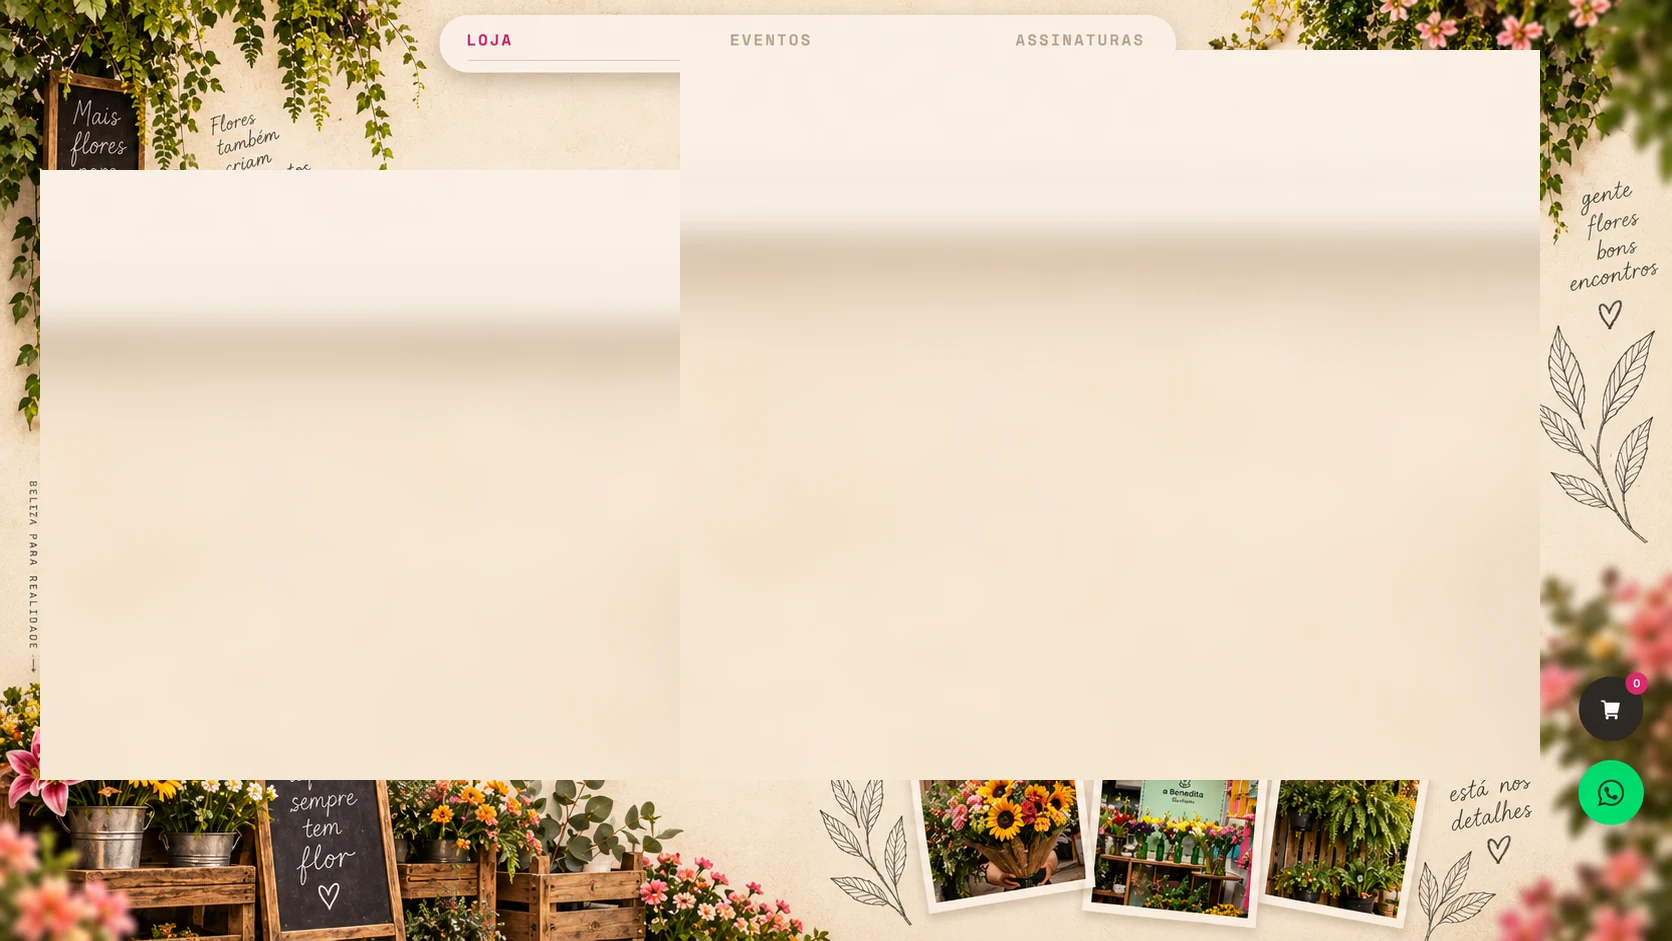
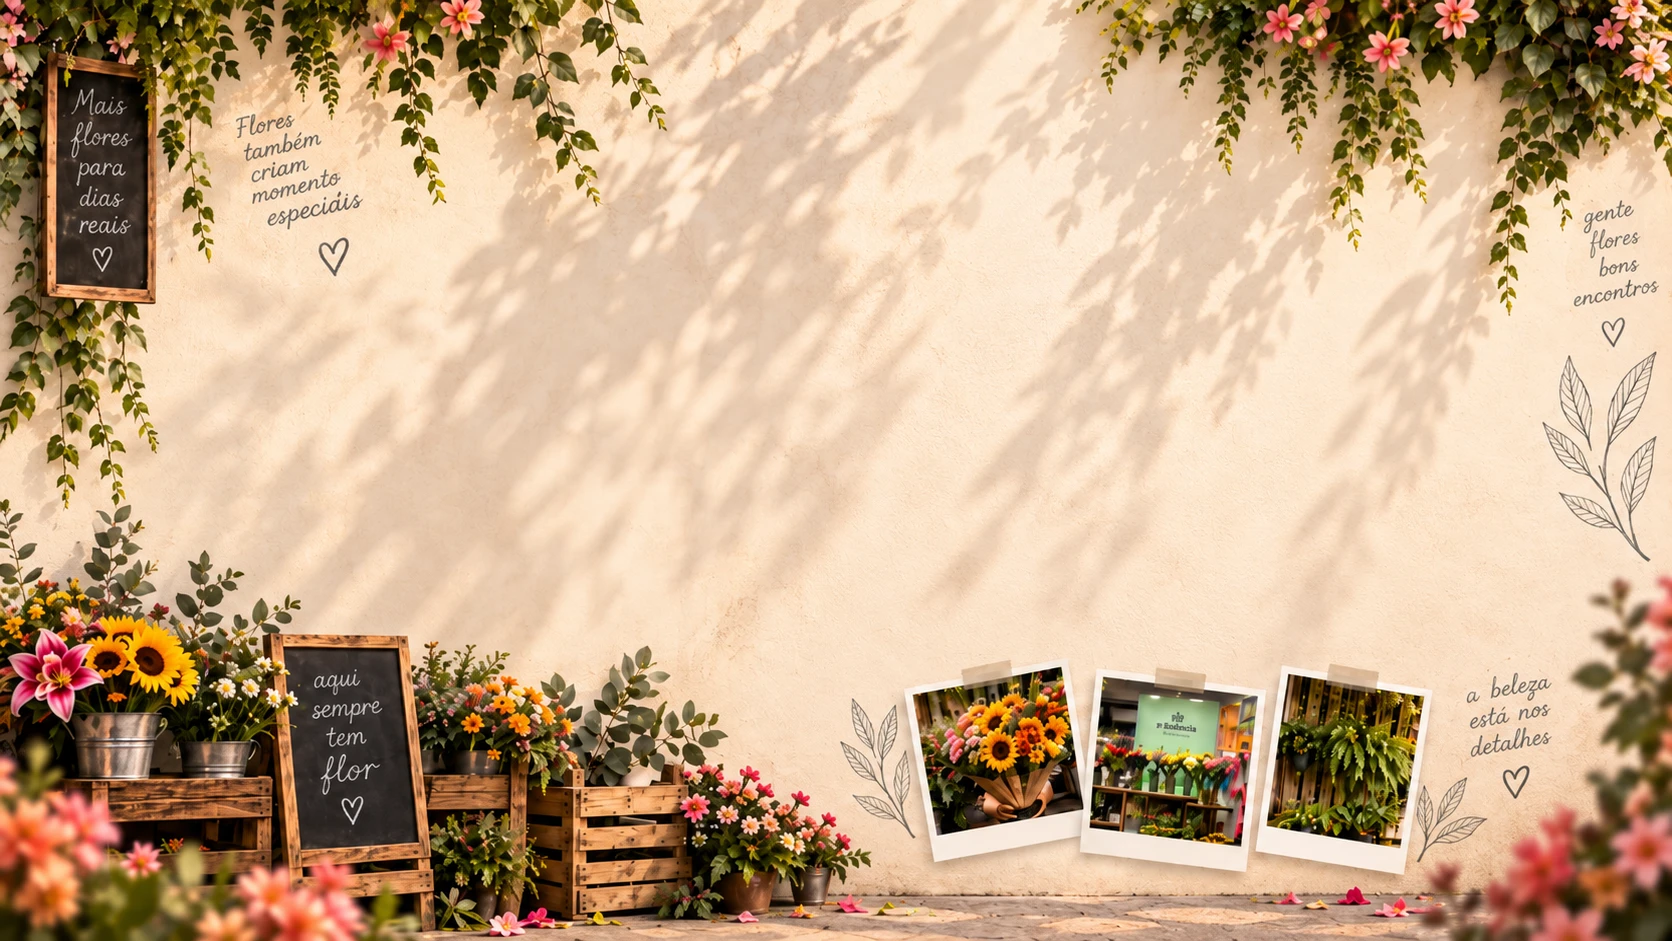
Troca os fundos de Loja/Eventos pelas artes limpas e deixa o menu de áreas discreto
Vocês mandaram as duas artes já limpas (sem fachada/mesa duplicada, sem
título nem botão desenhado por cima) — trocadas direto no lugar das que eu
tinha remontado por reamostragem. Ficou bem mais nítido, sem a costura que
aparecia antes atrás do texto e do carrossel.

Como o novo fundo não tem mais aquela área "lavada" atrás do texto, adicionei
um brilho suave (text-shadow) no parágrafo e nos diferenciais da Eventos pra
manter a leitura em cima da foto nos trechos mais claros/agitados.

O menu Loja/Eventos/Assinaturas ficou menor e com vidro fosco (mais blur,
fundo bem mais transparente, borda clara sutil) em vez do cartão quase opaco
que tinha antes — do tamanho pedido.

Claude-Session: https://claude.ai/code/session_01PMcx3Xrn1gNM7fsLboEuYz

diff --git a/index.html b/index.html
@@ -417,13 +417,14 @@ a{color:inherit; text-decoration:none}
 #pilares{height:360vh; background:var(--creme)}
 .areas__indicador{
   position:absolute; top:calc(var(--header-h) + 10px); left:50%; transform:translateX(-50%); z-index:40;
-  width:min(92vw,680px); padding:10px 24px; border-radius:var(--r-pill);
-  background:rgba(244,238,228,.9); backdrop-filter:blur(10px); -webkit-backdrop-filter:blur(10px);
-  box-shadow:var(--sh-md);
+  width:min(58vw,420px); padding:7px 18px; border-radius:var(--r-pill);
+  background:rgba(255,253,249,.4); backdrop-filter:blur(20px) saturate(140%); -webkit-backdrop-filter:blur(20px) saturate(140%);
+  border:1px solid rgba(255,255,255,.5);
+  box-shadow:0 6px 20px rgba(40,26,12,.1);
 }
-.areas__rotulos{display:flex; align-items:center; justify-content:space-between; font-family:var(--f-mono); font-weight:700; font-size:var(--fs-rotulo); letter-spacing:.14em; text-transform:uppercase}
-.areas__rotulos button{border:0; background:none; cursor:pointer; font:inherit; letter-spacing:inherit; text-transform:inherit; color:var(--pedra-txt); transition:color .4s ease; padding:6px 4px}
-.areas__barra{position:relative; width:100%; height:2px; margin-top:9px; background:rgba(60,40,20,.16); border-radius:2px}
+.areas__rotulos{display:flex; align-items:center; justify-content:space-between; font-family:var(--f-mono); font-weight:700; font-size:clamp(9px,1vw,11px); letter-spacing:.1em; text-transform:uppercase}
+.areas__rotulos button{border:0; background:none; cursor:pointer; font:inherit; letter-spacing:inherit; text-transform:inherit; color:var(--pedra-txt); transition:color .4s ease; padding:4px 3px}
+.areas__barra{position:relative; width:100%; height:1.5px; margin-top:6px; background:rgba(60,40,20,.14); border-radius:2px}
 .areas__barra i{position:absolute; inset:0; background:var(--magenta); border-radius:2px; transform:scaleX(0); transform-origin:left center; transition:background .4s ease}
 .areas__trilho{display:flex; width:300vw; height:100%; will-change:transform}
 .area{width:100vw; height:100%; flex-shrink:0; display:flex; align-items:center; padding:calc(var(--header-h) + var(--s5)) clamp(24px,5vw,80px) var(--s5)}
@@ -443,6 +444,10 @@ a{color:inherit; text-decoration:none}
 .area--loja, .area--eventos{position:relative; overflow:hidden}
 .area--loja .area__grade, .area--eventos .area__grade{max-width:none; grid-template-columns:minmax(0,1fr) minmax(0,1.2fr); align-items:start}
 .area--loja .area__grade > div:first-child, .area--eventos .area__grade > div:first-child{position:relative; z-index:2}
+.area--loja .area__grade > div:first-child :is(h3,p,.area__recursos li),
+.area--eventos .area__grade > div:first-child :is(h3,p,.area__recursos li){
+  text-shadow:0 1px 2px rgba(255,251,244,.85), 0 2px 18px rgba(255,251,244,.7);
+}
 
 .area__recursos{
   display:flex; list-style:none; margin:var(--s4) 0 0; padding:0;
